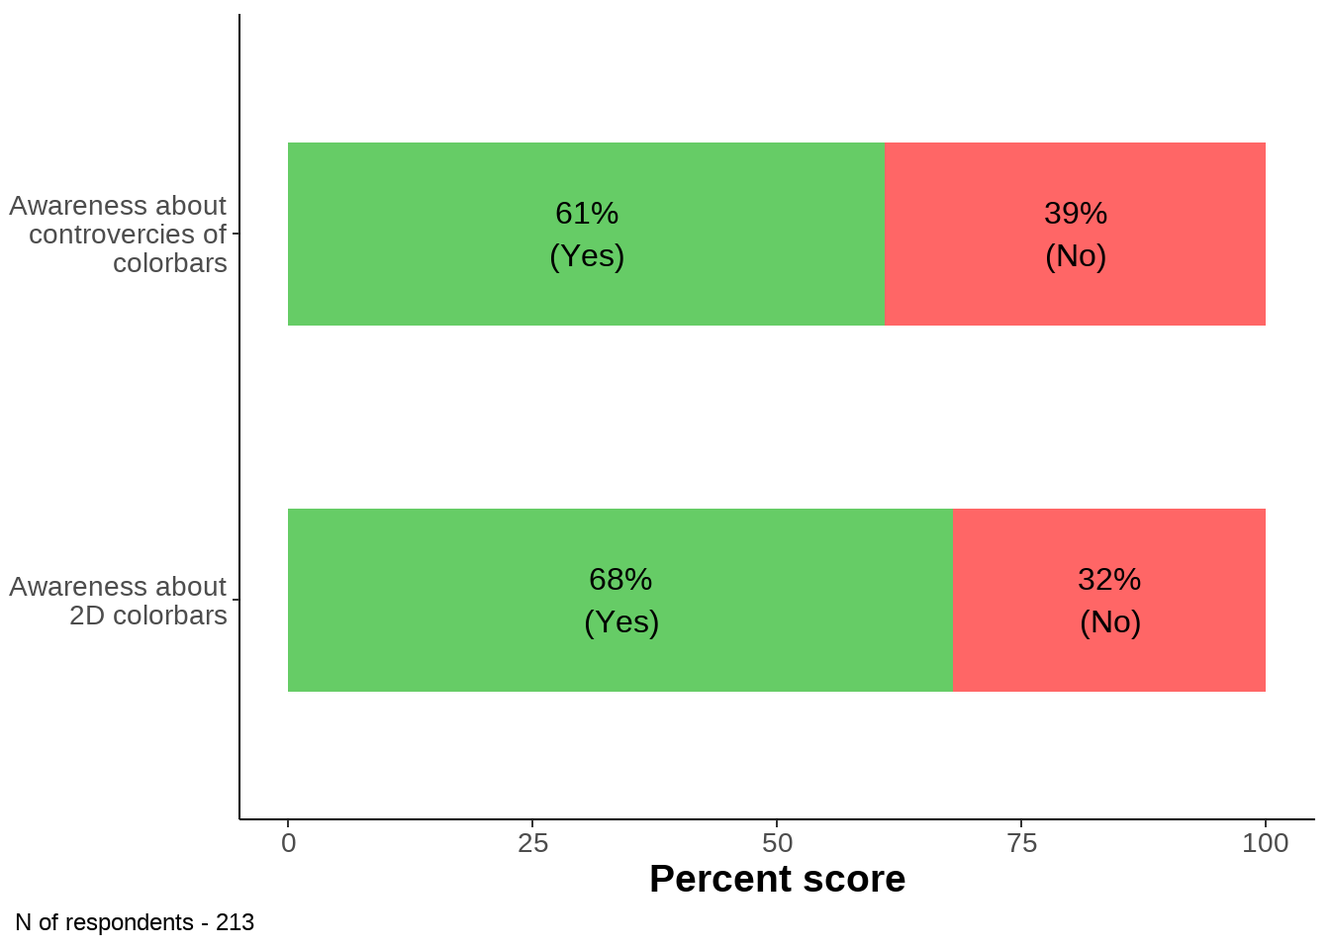
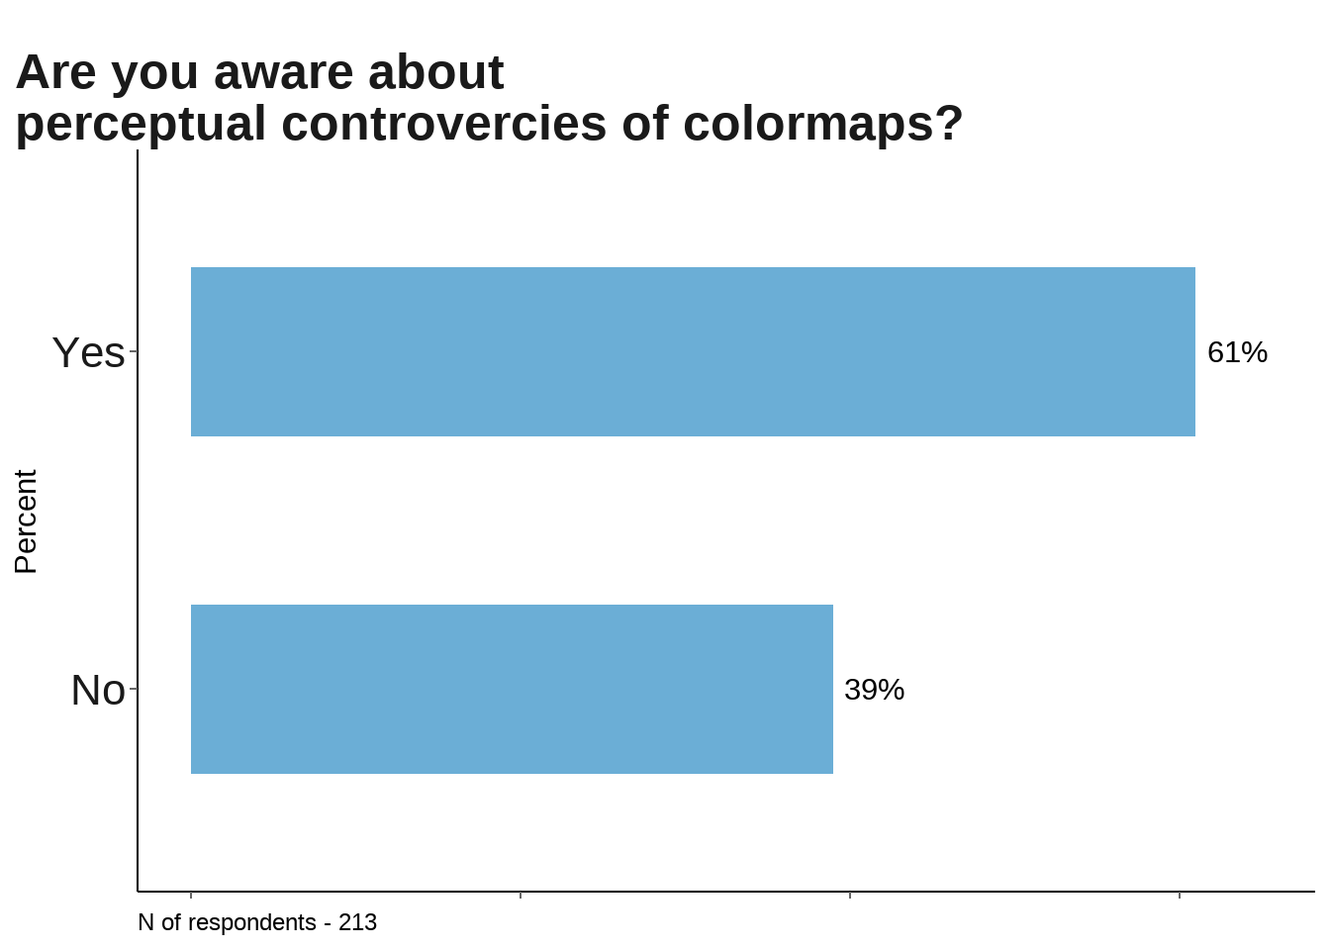
bad colors upd3

diff --git a/docs/customs.html b/docs/customs.html
@@ -1265,35 +1265,28 @@ pre > code.sourceCode > span > a:first-child::before { text-decoration: underlin
 <details>
 <summary>Code</summary>
 <div class="sourceCode cell-code" id="cb40"><pre class="sourceCode r code-with-copy"><code class="sourceCode r"><span id="cb40-1"><a href="#cb40-1" aria-hidden="true" tabindex="-1"></a>cb <span class="ot">&lt;-</span> <span class="fu">table</span>(data[<span class="dv">117</span>]) <span class="sc">%&gt;%</span> <span class="fu">data.frame</span>() <span class="sc">%&gt;%</span> <span class="fu">rename_at</span>(<span class="fu">vars</span>(<span class="fu">colnames</span>(.)), <span class="sc">~</span> <span class="fu">c</span>(<span class="st">"position"</span>, <span class="st">"scores"</span>)) </span>
-<span id="cb40-2"><a href="#cb40-2" aria-hidden="true" tabindex="-1"></a></span>
-<span id="cb40-3"><a href="#cb40-3" aria-hidden="true" tabindex="-1"></a><span class="fu">rbind</span>(<span class="fu">table</span>(data[<span class="dv">117</span>]) <span class="sc">%&gt;%</span> <span class="fu">data.frame</span>() <span class="sc">%&gt;%</span> </span>
-<span id="cb40-4"><a href="#cb40-4" aria-hidden="true" tabindex="-1"></a>  <span class="fu">rename_at</span>(<span class="fu">vars</span>(<span class="fu">colnames</span>(.)), <span class="sc">~</span> <span class="fu">c</span>(<span class="st">"answer"</span>, <span class="st">"scores"</span>)) <span class="sc">%&gt;%</span> </span>
-<span id="cb40-5"><a href="#cb40-5" aria-hidden="true" tabindex="-1"></a>  <span class="fu">mutate</span>(<span class="at">questions =</span> <span class="st">"Awareness about</span><span class="sc">\n</span><span class="st">controvercies of</span><span class="sc">\n</span><span class="st">colorbars"</span>)<span class="sc">%&gt;%</span></span>
-<span id="cb40-6"><a href="#cb40-6" aria-hidden="true" tabindex="-1"></a>  <span class="fu">mutate</span>(<span class="at">percent_score =</span> <span class="fu">round</span>(scores <span class="sc">/</span> <span class="fu">sum</span>(scores) <span class="sc">*</span> <span class="dv">100</span>)),</span>
-<span id="cb40-7"><a href="#cb40-7" aria-hidden="true" tabindex="-1"></a></span>
-<span id="cb40-8"><a href="#cb40-8" aria-hidden="true" tabindex="-1"></a><span class="fu">table</span>(data[<span class="dv">118</span>]) <span class="sc">%&gt;%</span> <span class="fu">data.frame</span>() <span class="sc">%&gt;%</span> </span>
-<span id="cb40-9"><a href="#cb40-9" aria-hidden="true" tabindex="-1"></a>  <span class="fu">rename_at</span>(<span class="fu">vars</span>(<span class="fu">colnames</span>(.)), <span class="sc">~</span> <span class="fu">c</span>(<span class="st">"answer"</span>, <span class="st">"scores"</span>)) <span class="sc">%&gt;%</span> </span>
-<span id="cb40-10"><a href="#cb40-10" aria-hidden="true" tabindex="-1"></a>  <span class="fu">mutate</span>(<span class="at">questions =</span> <span class="st">"Awareness about</span><span class="sc">\n</span><span class="st">2D colorbars"</span>) <span class="sc">%&gt;%</span></span>
-<span id="cb40-11"><a href="#cb40-11" aria-hidden="true" tabindex="-1"></a>  <span class="fu">mutate</span>(<span class="at">percent_score =</span> <span class="fu">round</span>(scores <span class="sc">/</span> <span class="fu">sum</span>(scores) <span class="sc">*</span> <span class="dv">100</span>))</span>
-<span id="cb40-12"><a href="#cb40-12" aria-hidden="true" tabindex="-1"></a>) <span class="sc">%&gt;%</span> </span>
-<span id="cb40-13"><a href="#cb40-13" aria-hidden="true" tabindex="-1"></a>  </span>
-<span id="cb40-14"><a href="#cb40-14" aria-hidden="true" tabindex="-1"></a>  <span class="fu">ggplot</span>(., <span class="fu">aes</span>(<span class="at">x =</span> percent_score, <span class="at">y =</span> questions, <span class="at">fill =</span> answer)) <span class="sc">+</span></span>
-<span id="cb40-15"><a href="#cb40-15" aria-hidden="true" tabindex="-1"></a>  <span class="fu">geom_col</span>(<span class="at">stat =</span> <span class="st">"identity"</span>, <span class="at">width =</span> <span class="fl">0.5</span>) <span class="sc">+</span></span>
-<span id="cb40-16"><a href="#cb40-16" aria-hidden="true" tabindex="-1"></a>   <span class="fu">geom_text</span>(<span class="fu">aes</span>(<span class="at">label =</span> <span class="fu">paste0</span>(percent_score, <span class="st">"%"</span>, <span class="st">"</span><span class="sc">\n</span><span class="st">("</span>, answer, <span class="st">")"</span>)), </span>
-<span id="cb40-17"><a href="#cb40-17" aria-hidden="true" tabindex="-1"></a>            <span class="at">position =</span> <span class="fu">position_stack</span>(<span class="at">vjust =</span> <span class="fl">0.5</span>), <span class="at">size =</span> <span class="dv">4</span>) <span class="sc">+</span> </span>
-<span id="cb40-18"><a href="#cb40-18" aria-hidden="true" tabindex="-1"></a>    <span class="fu">theme_classic</span>()<span class="sc">+</span> </span>
-<span id="cb40-19"><a href="#cb40-19" aria-hidden="true" tabindex="-1"></a>  <span class="fu">theme</span>(<span class="at">plot.title =</span> <span class="fu">element_text</span>(<span class="at">hjust =</span> <span class="fl">0.5</span>),</span>
-<span id="cb40-20"><a href="#cb40-20" aria-hidden="true" tabindex="-1"></a>        <span class="at">axis.text =</span> <span class="fu">element_text</span>(<span class="at">size =</span> <span class="dv">12</span>),</span>
-<span id="cb40-21"><a href="#cb40-21" aria-hidden="true" tabindex="-1"></a>        <span class="at">axis.title =</span> <span class="fu">element_text</span>(<span class="at">size =</span> <span class="dv">14</span>, <span class="at">face =</span> <span class="st">"bold"</span>),</span>
-<span id="cb40-22"><a href="#cb40-22" aria-hidden="true" tabindex="-1"></a>        <span class="at">legend.position =</span> <span class="st">"none"</span>,</span>
-<span id="cb40-23"><a href="#cb40-23" aria-hidden="true" tabindex="-1"></a>        <span class="at">legend.title =</span> <span class="fu">element_blank</span>(),</span>
-<span id="cb40-24"><a href="#cb40-24" aria-hidden="true" tabindex="-1"></a>        <span class="at">axis.title.y=</span><span class="fu">element_blank</span>()</span>
-<span id="cb40-25"><a href="#cb40-25" aria-hidden="true" tabindex="-1"></a>        ) <span class="sc">+</span></span>
-<span id="cb40-26"><a href="#cb40-26" aria-hidden="true" tabindex="-1"></a>  <span class="fu">scale_color_manual</span>(<span class="at">values =</span> <span class="fu">c</span>(<span class="st">"#FF6666"</span>, <span class="st">"#66CC66"</span>)) <span class="sc">+</span></span>
-<span id="cb40-27"><a href="#cb40-27" aria-hidden="true" tabindex="-1"></a>  <span class="fu">scale_fill_manual</span>(<span class="at">values =</span> <span class="fu">c</span>(<span class="st">"#FF6666"</span>, <span class="st">"#66CC66"</span>))  <span class="sc">+</span></span>
-<span id="cb40-28"><a href="#cb40-28" aria-hidden="true" tabindex="-1"></a>  <span class="fu">labs</span>(<span class="at">x=</span><span class="st">"Percent score"</span>) <span class="sc">+</span></span>
-<span id="cb40-29"><a href="#cb40-29" aria-hidden="true" tabindex="-1"></a>    <span class="fu">labs</span>(<span class="at">caption =</span> <span class="fu">sprintf</span>(<span class="st">"N of respondents - %d"</span>,  <span class="fu">sum</span>(cb<span class="sc">$</span>scores))) <span class="sc">+</span></span>
-<span id="cb40-30"><a href="#cb40-30" aria-hidden="true" tabindex="-1"></a>    <span class="fu">theme</span>(<span class="at">legend.position=</span><span class="st">"none"</span>, <span class="at">plot.caption.position =</span> <span class="st">"plot"</span>, <span class="at">plot.caption =</span> <span class="fu">element_text</span>(<span class="at">hjust=</span><span class="dv">0</span>), <span class="at">axis.text =</span> <span class="fu">element_text</span>(<span class="at">size =</span> <span class="dv">10</span>)) </span></code><button title="Copy to Clipboard" class="code-copy-button"><i class="bi"></i></button></pre></div>
+<span id="cb40-2"><a href="#cb40-2" aria-hidden="true" tabindex="-1"></a>cb  <span class="sc">%&gt;%</span> </span>
+<span id="cb40-3"><a href="#cb40-3" aria-hidden="true" tabindex="-1"></a>  <span class="fu">mutate</span>(<span class="at">percent_score =</span> <span class="fu">round</span>(scores <span class="sc">/</span> <span class="fu">sum</span>(scores) <span class="sc">*</span> <span class="dv">100</span>)) <span class="sc">%&gt;%</span> </span>
+<span id="cb40-4"><a href="#cb40-4" aria-hidden="true" tabindex="-1"></a>    <span class="fu">ggplot</span>(., <span class="fu">aes</span>(<span class="at">y =</span> position, <span class="at">x =</span> percent_score)) <span class="sc">+</span> <span class="co">#, fill = as.factor(percent_score))) +</span></span>
+<span id="cb40-5"><a href="#cb40-5" aria-hidden="true" tabindex="-1"></a>    <span class="fu">geom_bar</span>(<span class="at">position =</span> <span class="st">"dodge"</span>, <span class="at">stat =</span> <span class="st">"identity"</span>, <span class="at">width=</span><span class="fl">0.5</span>, <span class="at">fill =</span><span class="st">"#6BAED6"</span>) <span class="sc">+</span> </span>
+<span id="cb40-6"><a href="#cb40-6" aria-hidden="true" tabindex="-1"></a>    <span class="fu">theme_classic</span>() <span class="sc">+</span></span>
+<span id="cb40-7"><a href="#cb40-7" aria-hidden="true" tabindex="-1"></a>    <span class="fu">theme</span>(</span>
+<span id="cb40-8"><a href="#cb40-8" aria-hidden="true" tabindex="-1"></a>      <span class="at">legend.position=</span><span class="st">"none"</span>, </span>
+<span id="cb40-9"><a href="#cb40-9" aria-hidden="true" tabindex="-1"></a>      <span class="at">strip.background =</span> <span class="fu">element_blank</span>(), </span>
+<span id="cb40-10"><a href="#cb40-10" aria-hidden="true" tabindex="-1"></a>      <span class="at">axis.ticks =</span> <span class="fu">element_line</span>(<span class="at">color =</span> <span class="st">"grey40"</span>, <span class="at">size =</span> .<span class="dv">5</span>),</span>
+<span id="cb40-11"><a href="#cb40-11" aria-hidden="true" tabindex="-1"></a>      <span class="at">axis.text.x =</span> <span class="fu">element_blank</span>(),</span>
+<span id="cb40-12"><a href="#cb40-12" aria-hidden="true" tabindex="-1"></a>      <span class="at">axis.text.y =</span>  <span class="fu">element_text</span>(<span class="at">color =</span> <span class="st">"grey10"</span>, <span class="at">size =</span> <span class="dv">16</span>),</span>
+<span id="cb40-13"><a href="#cb40-13" aria-hidden="true" tabindex="-1"></a>      <span class="at">axis.title.x=</span><span class="fu">element_blank</span>(), </span>
+<span id="cb40-14"><a href="#cb40-14" aria-hidden="true" tabindex="-1"></a>      <span class="at">plot.title =</span> <span class="fu">element_text</span>(<span class="at">color =</span> <span class="st">"grey10"</span>, <span class="at">size =</span> <span class="dv">18</span>, <span class="at">face =</span> <span class="st">"bold"</span>, <span class="at">margin =</span> <span class="fu">margin</span>(<span class="at">t =</span> <span class="dv">15</span>)),</span>
+<span id="cb40-15"><a href="#cb40-15" aria-hidden="true" tabindex="-1"></a>      <span class="at">plot.title.position =</span> <span class="st">"plot"</span>,</span>
+<span id="cb40-16"><a href="#cb40-16" aria-hidden="true" tabindex="-1"></a>      <span class="at">plot.caption =</span> <span class="fu">element_text</span>(<span class="at">hjust=</span><span class="dv">0</span>), </span>
+<span id="cb40-17"><a href="#cb40-17" aria-hidden="true" tabindex="-1"></a>    ) <span class="sc">+</span> <span class="fu">ylab</span>(<span class="st">"Percent"</span>) <span class="sc">+</span></span>
+<span id="cb40-18"><a href="#cb40-18" aria-hidden="true" tabindex="-1"></a></span>
+<span id="cb40-19"><a href="#cb40-19" aria-hidden="true" tabindex="-1"></a>  <span class="fu">geom_text</span>(<span class="fu">aes</span>(<span class="at">label =</span> <span class="fu">paste0</span>(percent_score, <span class="st">"%"</span>), <span class="at">group =</span> position),  <span class="at">hjust =</span> <span class="sc">-</span><span class="fl">0.2</span>) <span class="sc">+</span> </span>
+<span id="cb40-20"><a href="#cb40-20" aria-hidden="true" tabindex="-1"></a>  <span class="fu">ggtitle</span>(<span class="st">"Are you aware about</span><span class="sc">\n</span><span class="st">perceptual controvercies of colormaps?"</span>)<span class="sc">+</span></span>
+<span id="cb40-21"><a href="#cb40-21" aria-hidden="true" tabindex="-1"></a>    <span class="fu">scale_fill_manual</span>(<span class="at">values=</span>colours) <span class="sc">+</span></span>
+<span id="cb40-22"><a href="#cb40-22" aria-hidden="true" tabindex="-1"></a>    <span class="fu">theme</span>(<span class="at">legend.position=</span><span class="st">"none"</span>, <span class="at">plot.caption =</span> <span class="fu">element_text</span>(<span class="at">hjust=</span><span class="dv">0</span>), <span class="at">axis.text =</span> <span class="fu">element_text</span>(<span class="at">size =</span> <span class="dv">10</span>)) <span class="sc">+</span> <span class="fu">xlim</span>(<span class="dv">0</span>, <span class="dv">65</span>) <span class="sc">+</span></span>
+<span id="cb40-23"><a href="#cb40-23" aria-hidden="true" tabindex="-1"></a>    <span class="fu">labs</span>(<span class="at">caption =</span> <span class="fu">sprintf</span>(<span class="st">"N of respondents - %d"</span>,  <span class="fu">sum</span>(cb<span class="sc">$</span>scores)))  </span></code><button title="Copy to Clipboard" class="code-copy-button"><i class="bi"></i></button></pre></div>
 </details>
 <div class="cell-output-display">
 <p><img src="customs_files/figure-html/unnamed-chunk-33-1.png" class="img-fluid" width="672"></p>
@@ -1302,24 +1295,34 @@ pre > code.sourceCode > span > a:first-child::before { text-decoration: underlin
 <div class="cell">
 <details>
 <summary>Code</summary>
-<div class="sourceCode cell-code" id="cb41"><pre class="sourceCode r code-with-copy"><code class="sourceCode r"><span id="cb41-1"><a href="#cb41-1" aria-hidden="true" tabindex="-1"></a>cb  <span class="sc">%&gt;%</span> </span>
-<span id="cb41-2"><a href="#cb41-2" aria-hidden="true" tabindex="-1"></a>  <span class="fu">mutate</span>(<span class="at">percent_score =</span> <span class="fu">round</span>(scores <span class="sc">/</span> <span class="fu">sum</span>(scores) <span class="sc">*</span> <span class="dv">100</span>)) <span class="sc">%&gt;%</span> </span>
-<span id="cb41-3"><a href="#cb41-3" aria-hidden="true" tabindex="-1"></a>    <span class="fu">ggplot</span>(., <span class="fu">aes</span>(<span class="at">y =</span> position, <span class="at">x =</span> percent_score)) <span class="sc">+</span> <span class="co">#, fill = as.factor(percent_score))) +</span></span>
-<span id="cb41-4"><a href="#cb41-4" aria-hidden="true" tabindex="-1"></a>    <span class="fu">geom_bar</span>(<span class="at">position =</span> <span class="st">"dodge"</span>, <span class="at">stat =</span> <span class="st">"identity"</span>, <span class="at">width=</span><span class="fl">0.5</span>, <span class="at">fill =</span><span class="st">"#6BAED6"</span>) <span class="sc">+</span> </span>
-<span id="cb41-5"><a href="#cb41-5" aria-hidden="true" tabindex="-1"></a>    <span class="fu">theme_classic</span>() <span class="sc">+</span></span>
-<span id="cb41-6"><a href="#cb41-6" aria-hidden="true" tabindex="-1"></a>    <span class="fu">theme</span>(<span class="at">axis.title.x=</span><span class="fu">element_blank</span>(), <span class="at">axis.text.x =</span> <span class="fu">element_blank</span>(), </span>
-<span id="cb41-7"><a href="#cb41-7" aria-hidden="true" tabindex="-1"></a>          <span class="at">text =</span> <span class="fu">element_text</span>(<span class="at">family =</span> <span class="st">"Lato"</span>),</span>
-<span id="cb41-8"><a href="#cb41-8" aria-hidden="true" tabindex="-1"></a>          <span class="at">legend.position=</span><span class="st">"none"</span>, </span>
-<span id="cb41-9"><a href="#cb41-9" aria-hidden="true" tabindex="-1"></a>          <span class="at">axis.title.y =</span> <span class="fu">element_blank</span>(),</span>
-<span id="cb41-10"><a href="#cb41-10" aria-hidden="true" tabindex="-1"></a>          <span class="at">plot.title =</span> <span class="fu">element_text</span>(<span class="at">hjust =</span> <span class="fl">0.5</span>)) <span class="sc">+</span> <span class="fu">ylab</span>(<span class="st">"Percent"</span>) <span class="sc">+</span></span>
-<span id="cb41-11"><a href="#cb41-11" aria-hidden="true" tabindex="-1"></a>     </span>
-<span id="cb41-12"><a href="#cb41-12" aria-hidden="true" tabindex="-1"></a>  <span class="fu">geom_text</span>(<span class="fu">aes</span>(<span class="at">label =</span> <span class="fu">paste0</span>(percent_score, <span class="st">"%"</span>), <span class="at">group =</span> position),  <span class="at">hjust =</span> <span class="sc">-</span><span class="fl">0.2</span>) <span class="sc">+</span> </span>
-<span id="cb41-13"><a href="#cb41-13" aria-hidden="true" tabindex="-1"></a>            <span class="co">#position = position_stack(vjust = 0.5), </span></span>
-<span id="cb41-14"><a href="#cb41-14" aria-hidden="true" tabindex="-1"></a>            <span class="co">#size = 6</span></span>
-<span id="cb41-15"><a href="#cb41-15" aria-hidden="true" tabindex="-1"></a>  <span class="fu">ggtitle</span>(<span class="st">"Are you aware about</span><span class="sc">\n</span><span class="st">perceptual controvercies of colormaps?"</span>)<span class="sc">+</span></span>
-<span id="cb41-16"><a href="#cb41-16" aria-hidden="true" tabindex="-1"></a>    <span class="fu">scale_fill_manual</span>(<span class="at">values=</span>colours) <span class="sc">+</span></span>
-<span id="cb41-17"><a href="#cb41-17" aria-hidden="true" tabindex="-1"></a>    <span class="fu">theme</span>(<span class="at">legend.position=</span><span class="st">"none"</span>, <span class="at">plot.caption =</span> <span class="fu">element_text</span>(<span class="at">hjust=</span><span class="dv">0</span>), <span class="at">axis.text =</span> <span class="fu">element_text</span>(<span class="at">size =</span> <span class="dv">10</span>)) <span class="sc">+</span> <span class="fu">xlim</span>(<span class="dv">0</span>, <span class="dv">65</span>) <span class="sc">+</span></span>
-<span id="cb41-18"><a href="#cb41-18" aria-hidden="true" tabindex="-1"></a>    <span class="fu">labs</span>(<span class="at">caption =</span> <span class="fu">sprintf</span>(<span class="st">"N of respondents - %d"</span>,  <span class="fu">sum</span>(cb<span class="sc">$</span>scores)))  </span></code><button title="Copy to Clipboard" class="code-copy-button"><i class="bi"></i></button></pre></div>
+<div class="sourceCode cell-code" id="cb41"><pre class="sourceCode r code-with-copy"><code class="sourceCode r"><span id="cb41-1"><a href="#cb41-1" aria-hidden="true" tabindex="-1"></a><span class="fu">rbind</span>(<span class="fu">table</span>(data[<span class="dv">117</span>]) <span class="sc">%&gt;%</span> <span class="fu">data.frame</span>() <span class="sc">%&gt;%</span> </span>
+<span id="cb41-2"><a href="#cb41-2" aria-hidden="true" tabindex="-1"></a>  <span class="fu">rename_at</span>(<span class="fu">vars</span>(<span class="fu">colnames</span>(.)), <span class="sc">~</span> <span class="fu">c</span>(<span class="st">"answer"</span>, <span class="st">"scores"</span>)) <span class="sc">%&gt;%</span> </span>
+<span id="cb41-3"><a href="#cb41-3" aria-hidden="true" tabindex="-1"></a>  <span class="fu">mutate</span>(<span class="at">questions =</span> <span class="st">"Awareness about</span><span class="sc">\n</span><span class="st">controvercies of</span><span class="sc">\n</span><span class="st">colorbars"</span>)<span class="sc">%&gt;%</span></span>
+<span id="cb41-4"><a href="#cb41-4" aria-hidden="true" tabindex="-1"></a>  <span class="fu">mutate</span>(<span class="at">percent_score =</span> <span class="fu">round</span>(scores <span class="sc">/</span> <span class="fu">sum</span>(scores) <span class="sc">*</span> <span class="dv">100</span>)),</span>
+<span id="cb41-5"><a href="#cb41-5" aria-hidden="true" tabindex="-1"></a></span>
+<span id="cb41-6"><a href="#cb41-6" aria-hidden="true" tabindex="-1"></a><span class="fu">table</span>(data[<span class="dv">118</span>]) <span class="sc">%&gt;%</span> <span class="fu">data.frame</span>() <span class="sc">%&gt;%</span> </span>
+<span id="cb41-7"><a href="#cb41-7" aria-hidden="true" tabindex="-1"></a>  <span class="fu">rename_at</span>(<span class="fu">vars</span>(<span class="fu">colnames</span>(.)), <span class="sc">~</span> <span class="fu">c</span>(<span class="st">"answer"</span>, <span class="st">"scores"</span>)) <span class="sc">%&gt;%</span> </span>
+<span id="cb41-8"><a href="#cb41-8" aria-hidden="true" tabindex="-1"></a>  <span class="fu">mutate</span>(<span class="at">questions =</span> <span class="st">"Awareness about</span><span class="sc">\n</span><span class="st">2D colorbars"</span>) <span class="sc">%&gt;%</span></span>
+<span id="cb41-9"><a href="#cb41-9" aria-hidden="true" tabindex="-1"></a>  <span class="fu">mutate</span>(<span class="at">percent_score =</span> <span class="fu">round</span>(scores <span class="sc">/</span> <span class="fu">sum</span>(scores) <span class="sc">*</span> <span class="dv">100</span>))</span>
+<span id="cb41-10"><a href="#cb41-10" aria-hidden="true" tabindex="-1"></a>) <span class="sc">%&gt;%</span> </span>
+<span id="cb41-11"><a href="#cb41-11" aria-hidden="true" tabindex="-1"></a>  </span>
+<span id="cb41-12"><a href="#cb41-12" aria-hidden="true" tabindex="-1"></a>  <span class="fu">ggplot</span>(., <span class="fu">aes</span>(<span class="at">x =</span> percent_score, <span class="at">y =</span> questions, <span class="at">fill =</span> answer)) <span class="sc">+</span></span>
+<span id="cb41-13"><a href="#cb41-13" aria-hidden="true" tabindex="-1"></a>  <span class="fu">geom_col</span>(<span class="at">stat =</span> <span class="st">"identity"</span>, <span class="at">width =</span> <span class="fl">0.5</span>) <span class="sc">+</span></span>
+<span id="cb41-14"><a href="#cb41-14" aria-hidden="true" tabindex="-1"></a>   <span class="fu">geom_text</span>(<span class="fu">aes</span>(<span class="at">label =</span> <span class="fu">paste0</span>(percent_score, <span class="st">"%"</span>, <span class="st">"</span><span class="sc">\n</span><span class="st">("</span>, answer, <span class="st">")"</span>)), </span>
+<span id="cb41-15"><a href="#cb41-15" aria-hidden="true" tabindex="-1"></a>            <span class="at">position =</span> <span class="fu">position_stack</span>(<span class="at">vjust =</span> <span class="fl">0.5</span>), <span class="at">size =</span> <span class="dv">4</span>) <span class="sc">+</span> </span>
+<span id="cb41-16"><a href="#cb41-16" aria-hidden="true" tabindex="-1"></a>    <span class="fu">theme_classic</span>()<span class="sc">+</span> </span>
+<span id="cb41-17"><a href="#cb41-17" aria-hidden="true" tabindex="-1"></a>  <span class="fu">theme</span>(<span class="at">plot.title =</span> <span class="fu">element_text</span>(<span class="at">hjust =</span> <span class="fl">0.5</span>),</span>
+<span id="cb41-18"><a href="#cb41-18" aria-hidden="true" tabindex="-1"></a>        <span class="at">axis.text =</span> <span class="fu">element_text</span>(<span class="at">size =</span> <span class="dv">12</span>),</span>
+<span id="cb41-19"><a href="#cb41-19" aria-hidden="true" tabindex="-1"></a>        <span class="at">axis.title =</span> <span class="fu">element_text</span>(<span class="at">size =</span> <span class="dv">14</span>, <span class="at">face =</span> <span class="st">"bold"</span>),</span>
+<span id="cb41-20"><a href="#cb41-20" aria-hidden="true" tabindex="-1"></a>        <span class="at">legend.position =</span> <span class="st">"none"</span>,</span>
+<span id="cb41-21"><a href="#cb41-21" aria-hidden="true" tabindex="-1"></a>        <span class="at">legend.title =</span> <span class="fu">element_blank</span>(),</span>
+<span id="cb41-22"><a href="#cb41-22" aria-hidden="true" tabindex="-1"></a>        <span class="at">axis.title.y=</span><span class="fu">element_blank</span>()</span>
+<span id="cb41-23"><a href="#cb41-23" aria-hidden="true" tabindex="-1"></a>        ) <span class="sc">+</span></span>
+<span id="cb41-24"><a href="#cb41-24" aria-hidden="true" tabindex="-1"></a>  <span class="fu">scale_color_manual</span>(<span class="at">values =</span> <span class="fu">c</span>(<span class="st">"#FF6666"</span>, <span class="st">"#66CC66"</span>)) <span class="sc">+</span></span>
+<span id="cb41-25"><a href="#cb41-25" aria-hidden="true" tabindex="-1"></a>  <span class="fu">scale_fill_manual</span>(<span class="at">values =</span> <span class="fu">c</span>(<span class="st">"#FF6666"</span>, <span class="st">"#66CC66"</span>))  <span class="sc">+</span></span>
+<span id="cb41-26"><a href="#cb41-26" aria-hidden="true" tabindex="-1"></a>  <span class="fu">labs</span>(<span class="at">x=</span><span class="st">"Percent score"</span>) <span class="sc">+</span></span>
+<span id="cb41-27"><a href="#cb41-27" aria-hidden="true" tabindex="-1"></a>    <span class="fu">labs</span>(<span class="at">caption =</span> <span class="fu">sprintf</span>(<span class="st">"N of respondents - %d"</span>,  <span class="fu">sum</span>(cb<span class="sc">$</span>scores))) <span class="sc">+</span></span>
+<span id="cb41-28"><a href="#cb41-28" aria-hidden="true" tabindex="-1"></a>    <span class="fu">theme</span>(<span class="at">legend.position=</span><span class="st">"none"</span>, <span class="at">plot.caption.position =</span> <span class="st">"plot"</span>, <span class="at">plot.caption =</span> <span class="fu">element_text</span>(<span class="at">hjust=</span><span class="dv">0</span>), <span class="at">axis.text =</span> <span class="fu">element_text</span>(<span class="at">size =</span> <span class="dv">10</span>)) </span></code><button title="Copy to Clipboard" class="code-copy-button"><i class="bi"></i></button></pre></div>
 </details>
 <div class="cell-output-display">
 <p><img src="customs_files/figure-html/unnamed-chunk-34-1.png" class="img-fluid" width="672"></p>
